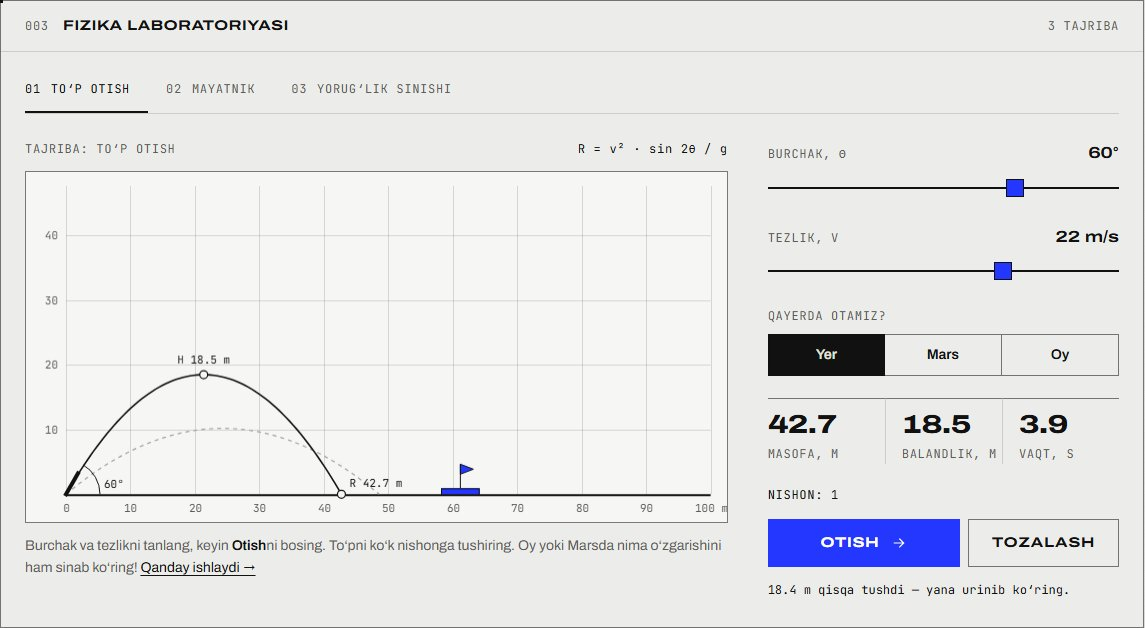
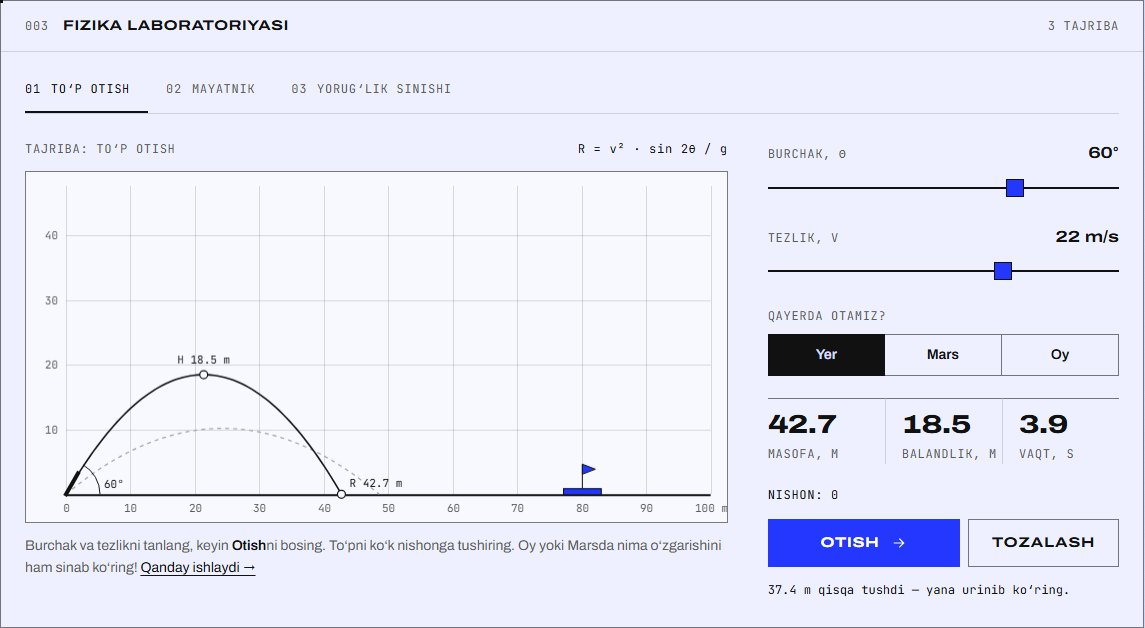
Fon rangi: lavanda (sahifa #D9DCFF, panellar #EEF0FF) — asosiy ko'k bilan uyg'un

diff --git a/style.css b/style.css
@@ -43,9 +43,9 @@
    Rangni o'zgartirmoqchi bo'lsangiz — faqat shu yerni o'zgartiring!
    ========================================================= */
 :root {
-  --paper: #e1e1de;           /* sahifa foni — och kulrang qog'oz */
-  --panel: #ececea;           /* panellar */
-  --field: #f6f6f4;           /* inputlar */
+  --paper: #d9dcff;           /* sahifa foni — lavanda (asosiy ko'k bilan bir oiladan) */
+  --panel: #eef0ff;           /* panellar — och lavanda */
+  --field: #f8f9ff;           /* inputlar va grafik maydoni */
   --ink: #111111;             /* asosiy qora */
   --text: #3d3d3b;            /* oddiy matn */
   --muted: #5c5c59;           /* xira matn (fonda ham, panelda ham kontrast ≥ 5:1) */

diff --git a/loyihalar/profil-sayti.html b/loyihalar/profil-sayti.html
@@ -5,7 +5,7 @@
   <meta name="viewport" content="width=device-width, initial-scale=1.0">
   <title>Shaxsiy profil sayti — Sunnatjon Gulboyev</title>
   <meta name="description" content="Birinchi loyiham: framework’siz HTML, CSS va JavaScript’da qurilgan shaxsiy sayt. Bir necha marta qayta dizayn qilindi — jarayon, qarorlar va o‘rganganlarim.">
-  <meta name="theme-color" content="#e1e1de">
+  <meta name="theme-color" content="#d9dcff">
   <!-- Sayt faqat yorug' rangda ko'rinadi (qurilma qorong'i rejimda bo'lsa ham) -->
   <meta name="color-scheme" content="only light">
   <meta property="og:type" content="article">

diff --git a/loyihalar/fizika-laboratoriyasi.html b/loyihalar/fizika-laboratoriyasi.html
@@ -5,7 +5,7 @@
   <meta name="viewport" content="width=device-width, initial-scale=1.0">
   <title>Fizika laboratoriyasi — Sunnatjon Gulboyev</title>
   <meta name="description" content="Uchta interaktiv fizika tajribasi: to‘p otish, mayatnik va yorug‘lik sinishi. Haqiqiy formulalar, vazifalar va jonli grafiklar. JavaScript va Canvas.">
-  <meta name="theme-color" content="#e1e1de">
+  <meta name="theme-color" content="#d9dcff">
   <!-- Sayt faqat yorug' rangda ko'rinadi (qurilma qorong'i rejimda bo'lsa ham) -->
   <meta name="color-scheme" content="only light">
   <meta property="og:type" content="article">

diff --git a/index.html b/index.html
@@ -6,7 +6,7 @@
   <meta name="viewport" content="width=device-width, initial-scale=1.0">
   <title>Sunnatjon Gulboyev — bo‘lajak dasturchi</title>
   <meta name="description" content="Sunnatjon Gulboyev — 9-sinf o‘quvchisi va bo‘lajak dasturchi. Fizika va kodni birlashtirib, brauzerda ishlaydigan interaktiv loyihalar yarataman.">
-  <meta name="theme-color" content="#e1e1de">
+  <meta name="theme-color" content="#d9dcff">
   <!-- Sayt faqat yorug' rangda ko'rinadi (qurilma qorong'i rejimda bo'lsa ham) -->
   <meta name="color-scheme" content="only light">
 

diff --git a/404.html b/404.html
@@ -5,7 +5,7 @@
   <meta name="viewport" content="width=device-width, initial-scale=1.0">
   <title>Sahifa topilmadi — Sunnatjon Gulboyev</title>
   <meta name="robots" content="noindex">
-  <meta name="theme-color" content="#e1e1de">
+  <meta name="theme-color" content="#d9dcff">
   <!-- Sayt faqat yorug' rangda ko'rinadi (qurilma qorong'i rejimda bo'lsa ham) -->
   <meta name="color-scheme" content="only light">
   <!--
